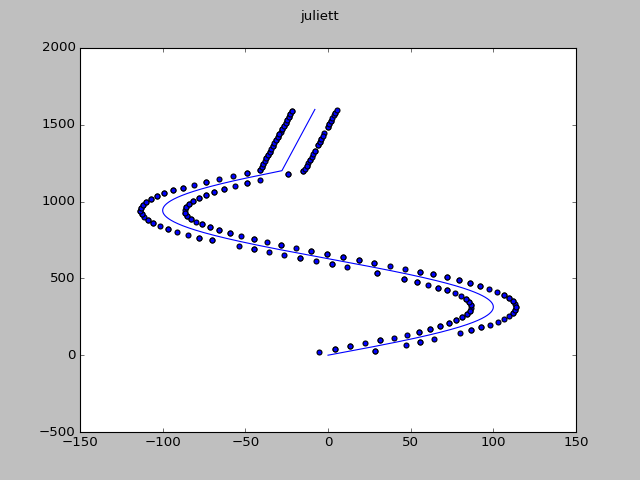
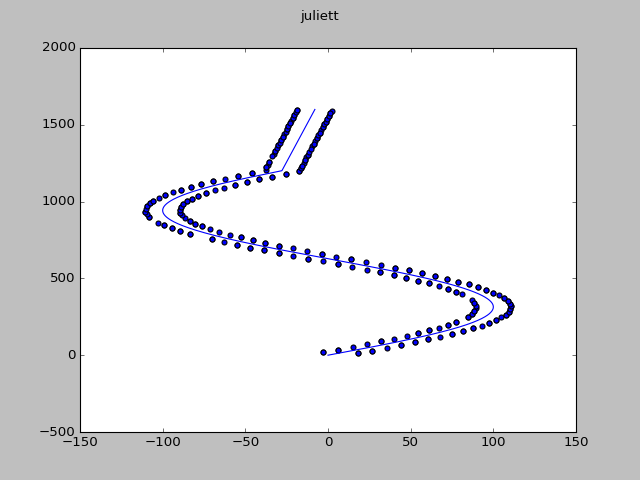
Fixed angle direction

Changed region(s): [[0.2188, 0.2188, 0.8125, 0.75]]

diff --git a/previews/__make__.py b/previews/__make__.py
@@ -13,7 +13,7 @@ for map_id in MAP_IDS:
     
     world, track = make_wt(map_id)
     drive = Drive(world)
-    drive.set_pose(track.get_pose(0.0))
+    drive.set_pose(track.get_pose(0.1))
 
     imsave(MY_DIR + "/" + map_id + ".track.png", make_preview(track, world, title=map_id))
     imsave(MY_DIR + "/" + map_id + ".world.png", drive.render())

diff --git a/konics/core/world2.py b/konics/core/world2.py
@@ -14,6 +14,7 @@ class World:
 
     def render(self, pose):
         url = "http://localhost:3000/"
+        pose = (pose[0], pose[1], -pose[2])
         payload = {"cones": self.cones2, "pose": pose}
         response = requests.post(url, json=payload)
         return imread(BytesIO(response.content))
